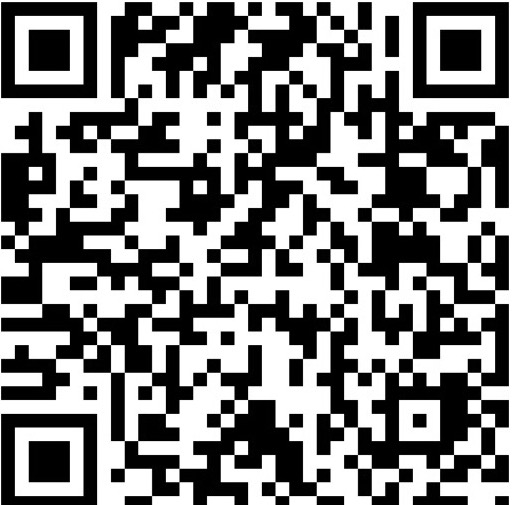
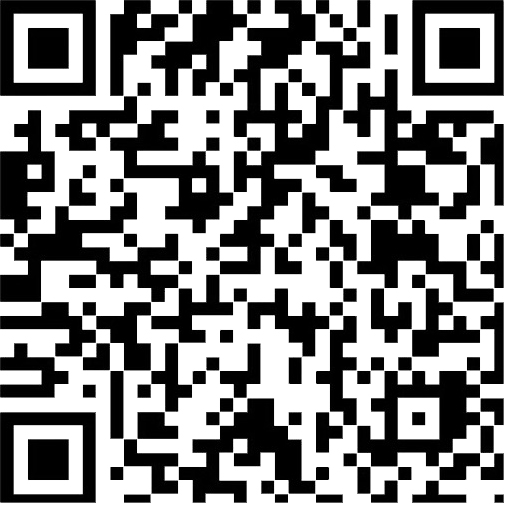
release 2

diff --git a/index.html b/index.html
@@ -3,7 +3,7 @@
 <head>
   <meta charset="UTF-8">
   <meta name="viewport" content="width=device-width, initial-scale=1">
-  <title>你被邀请了！</title> 
+  <title>你被邀请了！</title>
   <link rel="stylesheet" href="https://maxcdn.bootstrapcdn.com/bootstrap/3.3.6/css/bootstrap.min.css" integrity="sha384-1q8mTJOASx8j1Au+a5WDVnPi2lkFfwwEAa8hDDdjZlpLegxhjVME1fgjWPGmkzs7" crossorigin="anonymous">
   <link rel="stylesheet" href="css/style.css"/>
   <link rel="stylesheet" type="text/css" href="css/jquery.fullPage.css"/>
@@ -12,7 +12,7 @@
   <script src="http://ajax.googleapis.com/ajax/libs/jqueryui/1.9.1/jquery-ui.min.js"></script>
   <script type="text/javascript" src="js/jquery.fullPage.js"></script>
   <script type="text/javascript" src="js/javascript.js"></script>
-  
+
 
 </head>
 
@@ -20,7 +20,7 @@
   <div id="header">
     <h2><span id="navbtn" class="glyphicon glyphicon-menu-up" aria-hidden="true" style="color:white"></span></h2>
   </div>
-  
+
   <div id="footer">
     <h2>
       <span id="navbtn" class="glyphicon glyphicon-menu-down" aria-hidden="true" style="color:white"></span>
@@ -28,7 +28,7 @@
   </div>
 
 
-  
+
   <div id="fullpage">
     <div class="section" id="section1">
       <h1>shhhhhhh!</h1>
@@ -62,7 +62,8 @@
       <h1>不见不散！</h1>
     </div>
     <div class="section" id="section5">
-      <h1>加入微信群！</h1>
+      <h1>加入微信群!</h1>
+      <img src="qr.jpg" width="200px">
     </div>
   </div>
 

diff --git a/css/style.css b/css/style.css
@@ -63,6 +63,9 @@ body { background-repeat: no-repeat; }
   color: #663366;
 }
 
+#section5 {
+  /*background-image: url(../bg2.jpg);*/
+}
 
 #t1{
   font-size: 2em;
